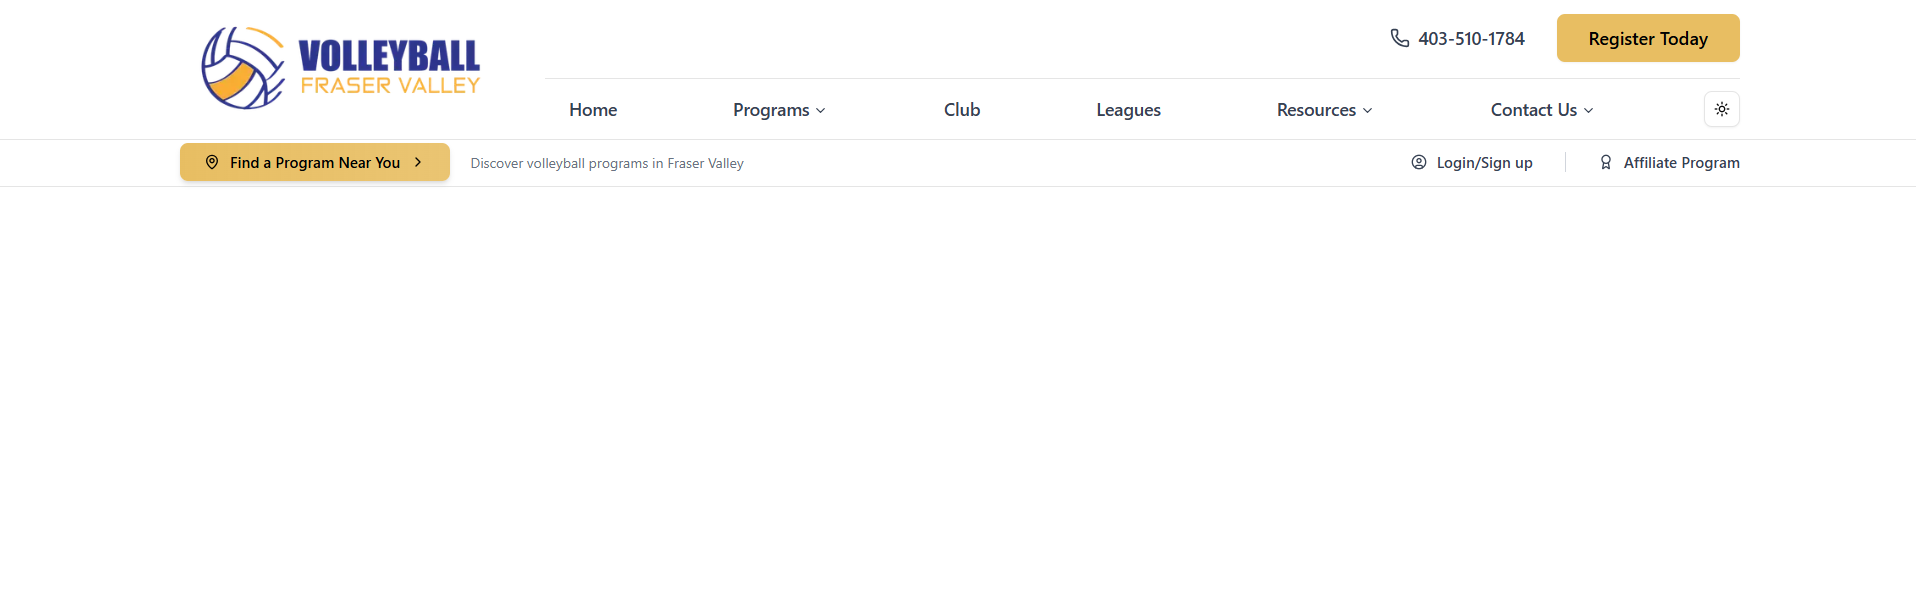
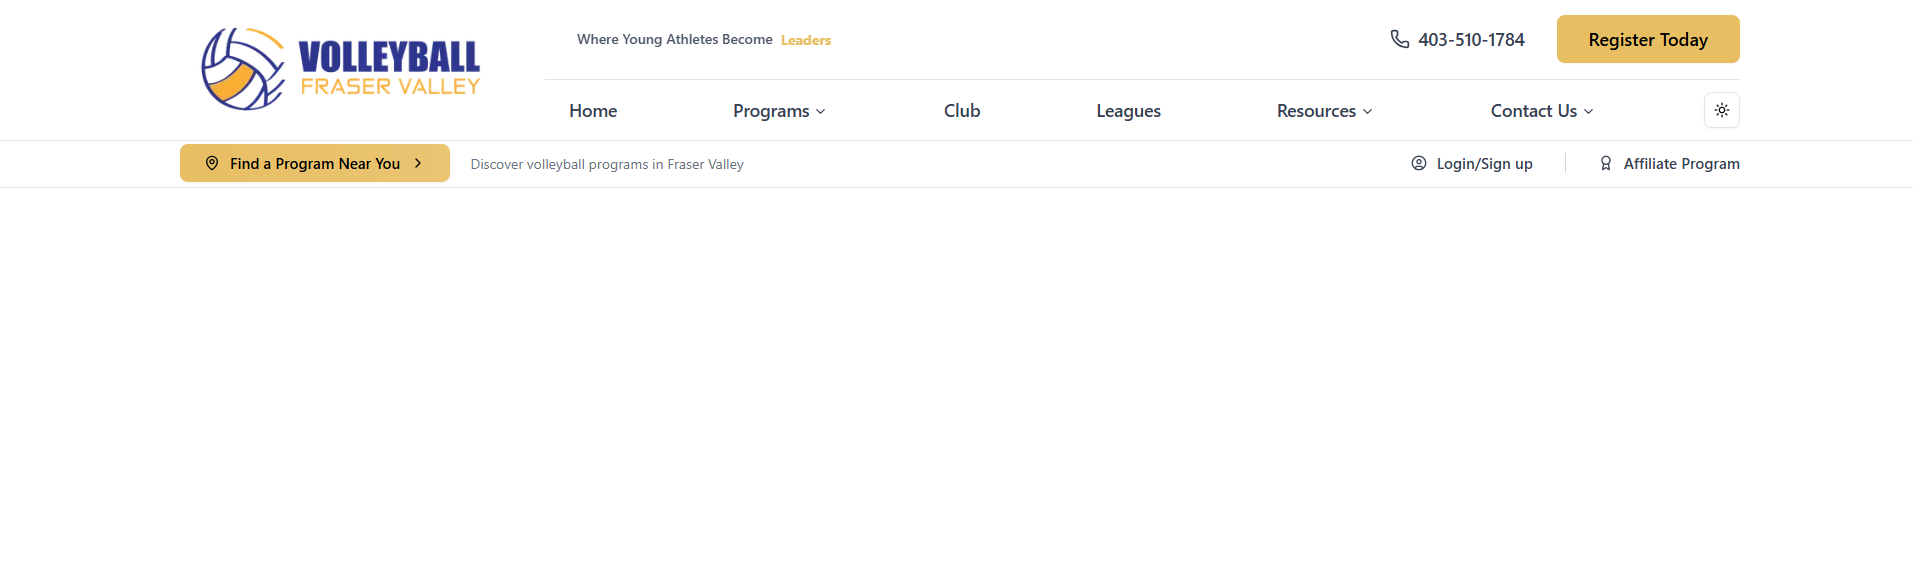
style: increase tagline font size for better visibility

diff --git a/components/ui/animated-tagline.tsx b/components/ui/animated-tagline.tsx
@@ -12,23 +12,23 @@ export function AnimatedTagline({ className }: AnimatedTaglineProps) {
   const rotatingWords = ["Champions", "Leaders", "Winners", "Elite"]
   
   return (
-    <div className={cn("flex items-center gap-2", className)}>
+    <div className={cn("flex items-center gap-2.5", className)}>
       <BlurText
         text="Where Young Athletes Become"
         delay={100}
         animateBy="words"
         direction="top"
-        className="text-sm font-medium text-gray-600 dark:text-gray-400"
+        className="text-[17px] font-medium text-gray-600 dark:text-gray-400"
       />
       <WordRotate
         words={rotatingWords}
         duration={3000}
-        className="text-sm font-bold text-primary"
+        className="text-[19px] font-extrabold text-primary"
         motionProps={{
-          initial: { opacity: 0, filter: "blur(8px)", y: -20 },
+          initial: { opacity: 0, filter: "blur(10px)", y: -25 },
           animate: { opacity: 1, filter: "blur(0px)", y: 0 },
-          exit: { opacity: 0, filter: "blur(8px)", y: 20 },
-          transition: { duration: 0.35, ease: "easeInOut" },
+          exit: { opacity: 0, filter: "blur(10px)", y: 25 },
+          transition: { duration: 0.4, ease: "easeInOut" },
         }}
       />
     </div>
